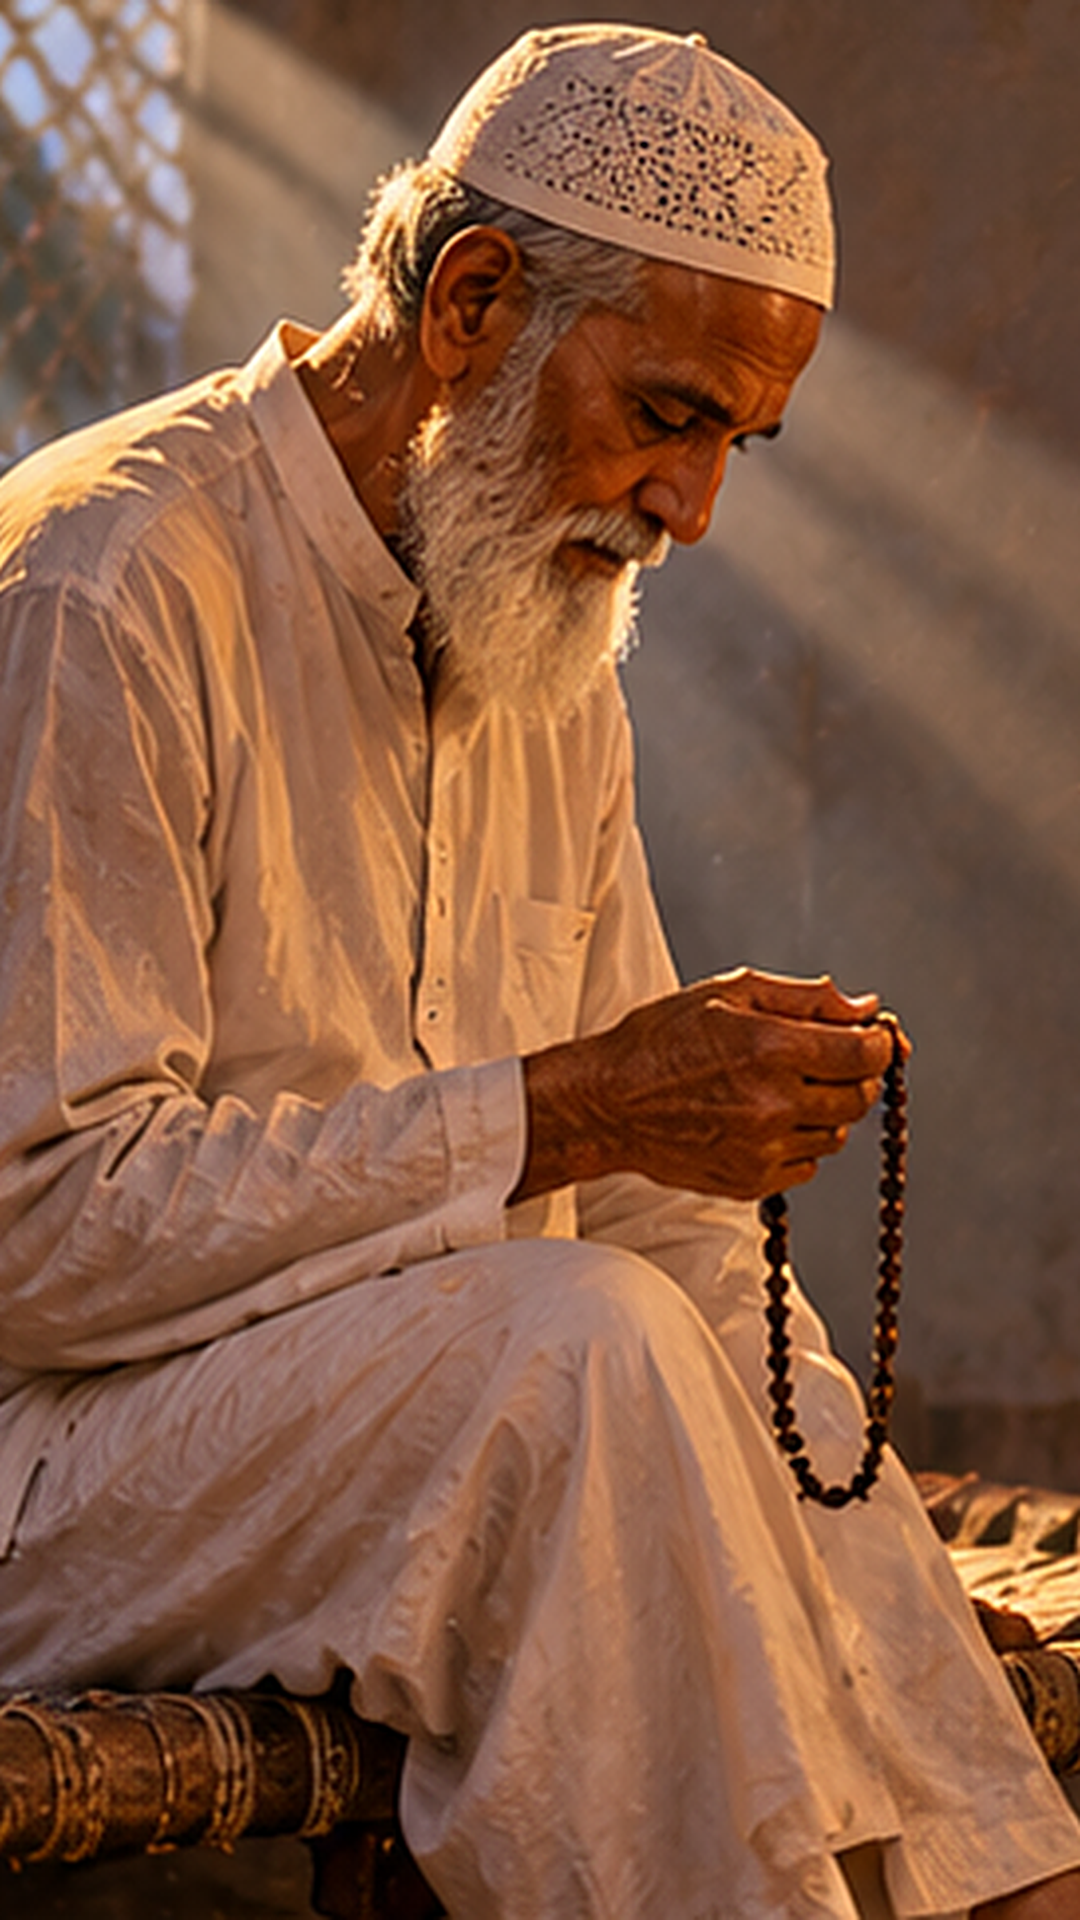
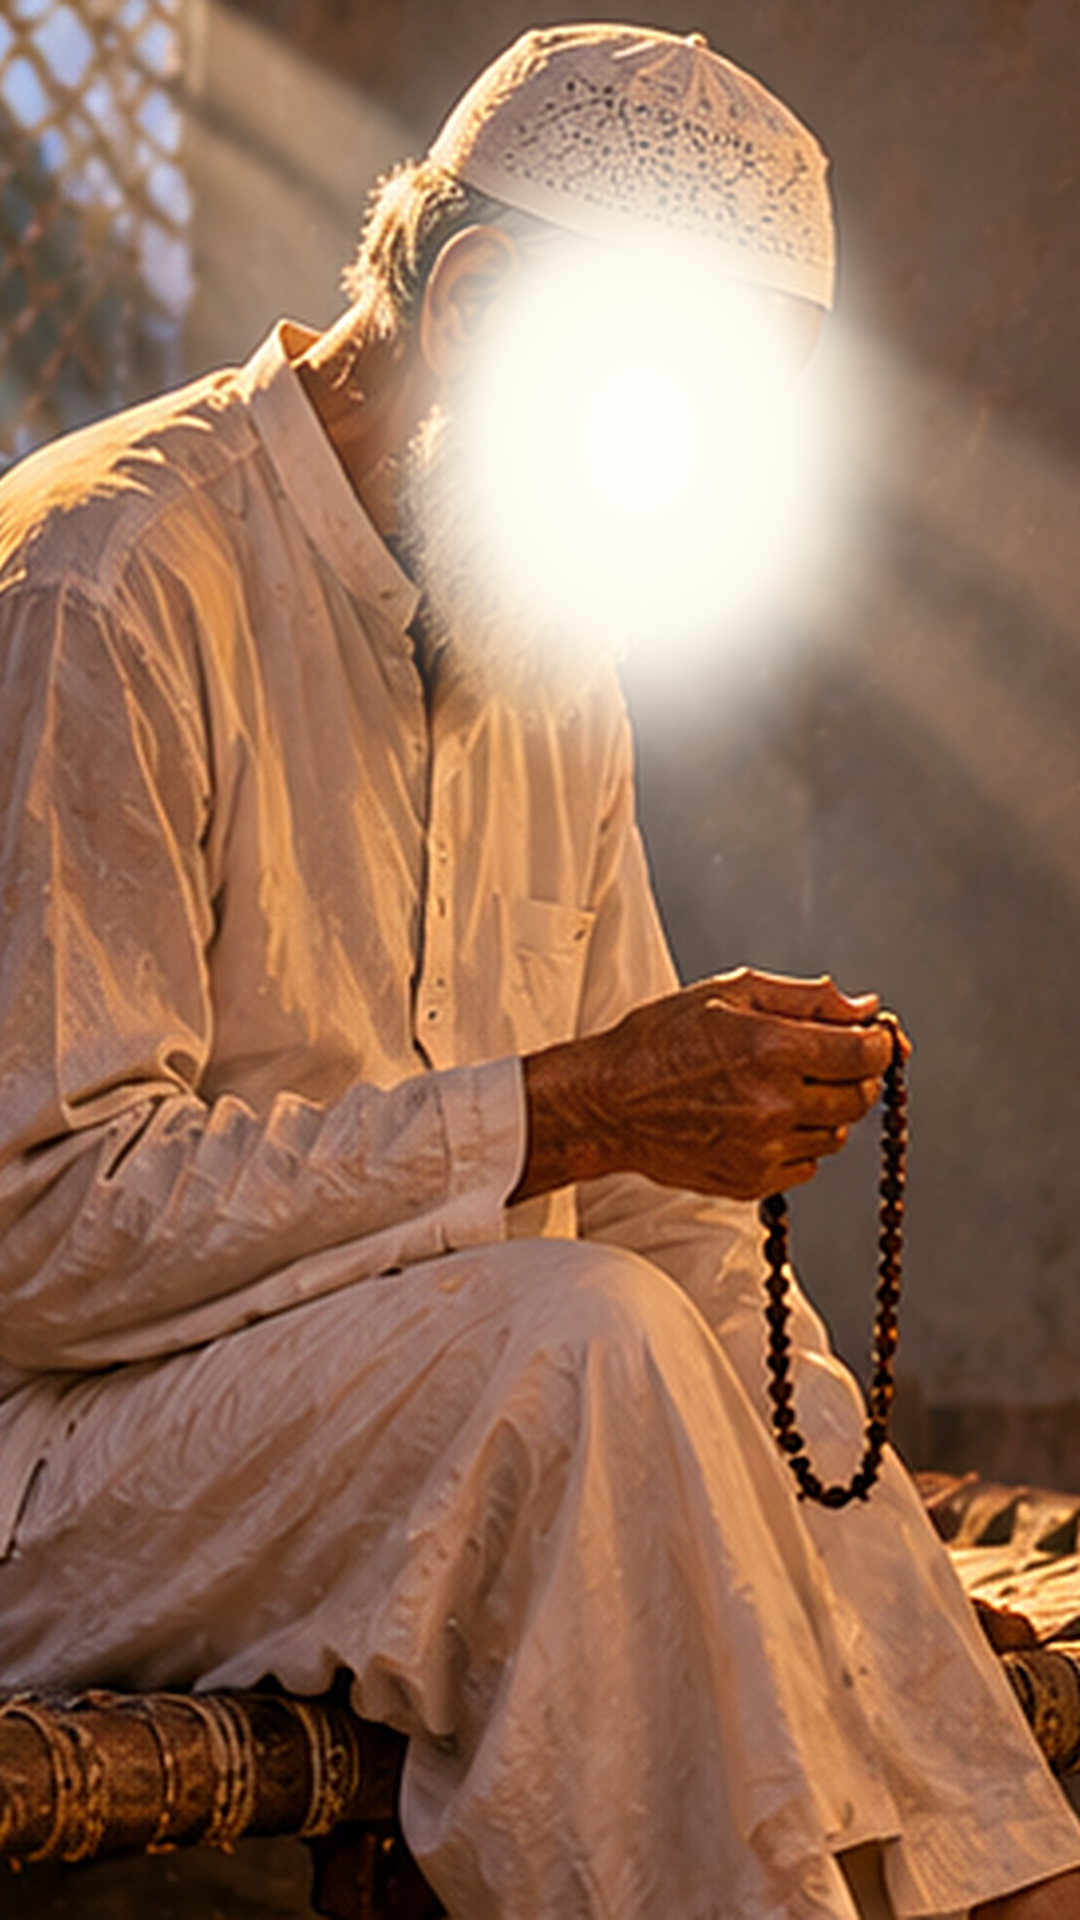
engine: Urdu words over clips can appear when spoken ('from'), no caption blink across cuts; NAF6 S2/S3 word timing, elder's face in light
Claude-Session: https://claude.ai/code/session_01GAgT6JHTKoSgF7eULv7uw6

Changed region(s): [[0.275, 0.0312, 0.8861, 0.4375]]

diff --git a/tools/shorts/engine/scenes_v.py b/tools/shorts/engine/scenes_v.py
@@ -5,7 +5,7 @@ Veo or Kling) filling the segment, under the usual captions, header and brand li
 - Neither: a dark placeholder card with the scene name, so a test render works before all clips are in.
 Timeline entry: ("voice", a, b, "clip:AN1-01").
 Words on a clip: <project>/clip_words.py with WORDS = {"AN1-01": {"text": "...", "text_at": (fx, fy),
-"surprise": [(t, fx, fy, "...")]}} - the same options as slides (scenes_g.py); surprise times are recording times."""
+"from": t, "surprise": [(t, fx, fy, "...")]}} - the same options as slides (scenes_g.py); surprise times are recording times."""
 import os, math
 import cv2
 from PIL import Image, ImageDraw
@@ -82,9 +82,10 @@ def clip(name, tl, d, ot=None):
     if w:
         import scenes_g as G
         if w.get("surprise") and ot is not None: img = G.apply_surprise(img, ot, w["surprise"])
-        if w.get("text"):
+        if w.get("text"):          # "from": recording time the words appear (when he says them); default: scene start
             tx, ty = w.get("text_at", (0.5, 0.13))
-            img = L.paste_center(img, L.urdu(w["text"], 92), L.W * tx, L.H * ty, alpha=min(1, tl / 0.8))
+            al = min(1, tl / 0.8) if w.get("from") is None or ot is None else min(1, max(0, (ot - w["from"]) / 0.8))
+            if al > 0: img = L.paste_center(img, L.urdu(w["text"], 92), L.W * tx, L.H * ty, alpha=al)
     return img
 
 def _clip(name, tl, d):

diff --git a/tools/shorts/projects/2026-11-nizam-ul-amal-6/clip_words.py b/tools/shorts/projects/2026-11-nizam-ul-amal-6/clip_words.py
@@ -1,12 +1,12 @@
 """Urdu/Arabic words over the animated clips (made by engine/clip_words.py from slides.py; edit freely)."""
 WORDS = {'N6S1-01': {'text': 'خطرہ'},
  'N6S1-02': {'text': 'عزم'},
- 'N6S2-01': {'text': 'نظر بر قدم'},
- 'N6S2-02': {'text': 'خلوت در انجمن'},
+ 'N6S2-01': {'text': 'نظر بر قدم', 'from': 555.0},
+ 'N6S2-02': {'text': 'خلوت  در  انجمن', 'from': 563.8},
  'N6S2-09': {'text': 'ایک نقطہ'},
- 'N6S3-05': {'text': 'لال ڈورے ہیں\nبند پائے نظر', 'text_at': (0.5, 0.165)},
+ 'N6S3-05': {'text': 'لال ڈورے ہیں\nبند پائے نظر', 'text_at': (0.5, 0.165), 'from': 711.3},
  'N6S3-06': {'text': 'صید کرتی ہیں یار کی آنکھیں'},
- 'N6S3-10': {'text': 'اللہ'},
+ 'N6S3-10': {'text': 'اللہ', 'from': 763.5},
  'N6S4-04': {'surprise': [(1138.3, 0.5, 0.36, 'يَا خَالِقُ يَا بَارِئُ يَا مُصَوِّرُ')]},
  'N6S4-06': {'surprise': [(1164.4, 0.5, 0.36, 'کشف')]},
  'N6S4-08': {'text': 'پانچ سو صفحات'},

diff --git a/tools/shorts/engine/render.py b/tools/shorts/engine/render.py
@@ -86,7 +86,7 @@ def caption_track(segs):
     out.sort(key=lambda x: x[0])
     for i, c in enumerate(out):
         nxt = out[i + 1][0] if i + 1 < len(out) else 1e9
-        c[1] = min(nxt, c[1] + 0.6, c[3])
+        c[1] = nxt if nxt - c[1] < 0.6 else min(c[1] + 0.6, c[3])   # no blink between pieces across a cut
     return out
 
 def vignette():
